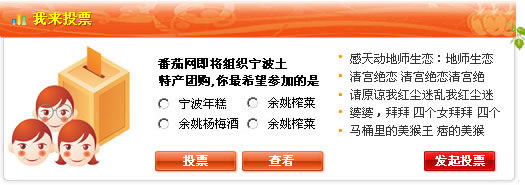
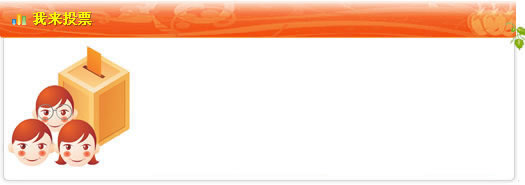
vote

diff --git a/css/index.css b/css/index.css
@@ -174,6 +174,13 @@ p{margin:0px; padding:0px;}
 #ibody_bottom #p2{width:995px; margin-top:2px; float:left; display:inline;}
 
 #b_t_l{width:525px; height:188px; background:url(/images/index/bg_b_t_l.jpg) no-repeat; float:left; display:inline;}
+#b_t_l .l_box{width:180px; height:140px; margin-left:145px; margin-top:50px; float:left; display:inline; }
+#b_t_l .r_box{width:170px; height:100px; margin-top:50px; margin-left:5px; float:left; display:inline; }
+#b_t_l .bottom_title{width:170px; height:18px; line-height:18px; overflow:hidden; float:left; display:inline;}
+#b_t_l .bottom_title li{width:170px; padding:0px; margin:0px; float:left; display:inline;}
+#b_t_l .bottom_title a{color:#000000; text-decoration:none;}
+#b_t_l #vote{width:83px; height:23px; margin-left:5px; float:left; display:inline;}
+#b_t_l #begin_vote{width:83px; height:23px; margin-left:5px; float:left; display:inline;}
 
 #b_t_r{width:470px; height:188px; background:url(/images/index/bg_b_t_r.jpg) no-repeat; float:right; display:inline;}
 #b_t_r .m_box{width:205px; height:140px; margin-left:140px; margin-top:40px; float:left; display:inline;}

diff --git a/index.php b/index.php
@@ -699,7 +699,33 @@
     <div id=p1>
       <!-- start bottom_top_left !-->
  			<div id=b_t_l>
-
+ 				<?php  
+					$sql = 'select id,name from smg_vote where is_adopt=1 order by created_at desc limit 12';
+					$record = $db->query($sql);
+					$count = count($record);
+				?>
+				<div class=l_box>
+					<?php
+						$l_count = $count>7?7:$count;
+						for($i=0;$i<$l_count;$i++){
+					?>
+					<div class="bottom_title"><li><span style="color:#FF9900">·</span><a href="/vote/vote.php?id=<?php echo $record[$i]->id ?>" title="<?php echo strip_tags($record[$i]->name); ?>" target=_blank><?php echo strip_tags($record[$i]->name);?></a></li></div>
+					<?php
+						}
+					?>
+				</div>
+				<div class=r_box>
+					<?php
+						$count = $count-7>0?$count:7;
+						for($i=7;$i<$count;$i++){
+					?>
+					<div class="bottom_title"><li><span style="color:#FF9900;">·</span><a href="/vote/vote.php?id=<?php echo $record[$i]->id ?>" title="<?php echo strip_tags($record[$i]->name); ?>" target=_blank><?php echo strip_tags($record[$i]->name);?></a></li></div>
+					<?php
+						}
+					?>
+				</div>
+				<div id=vote><a href="/vote/vote_list.php" target="_blank"><img border=0 src="/images/index/vote.jpg"></a></div>
+				<div id=begin_vote><a href="/vote/beginvote.php" target="_blank"><img border=0 src="/images/index/begin_vote.jpg"></a></div>
  			</div>
  			<!-- end !-->	      	
  
